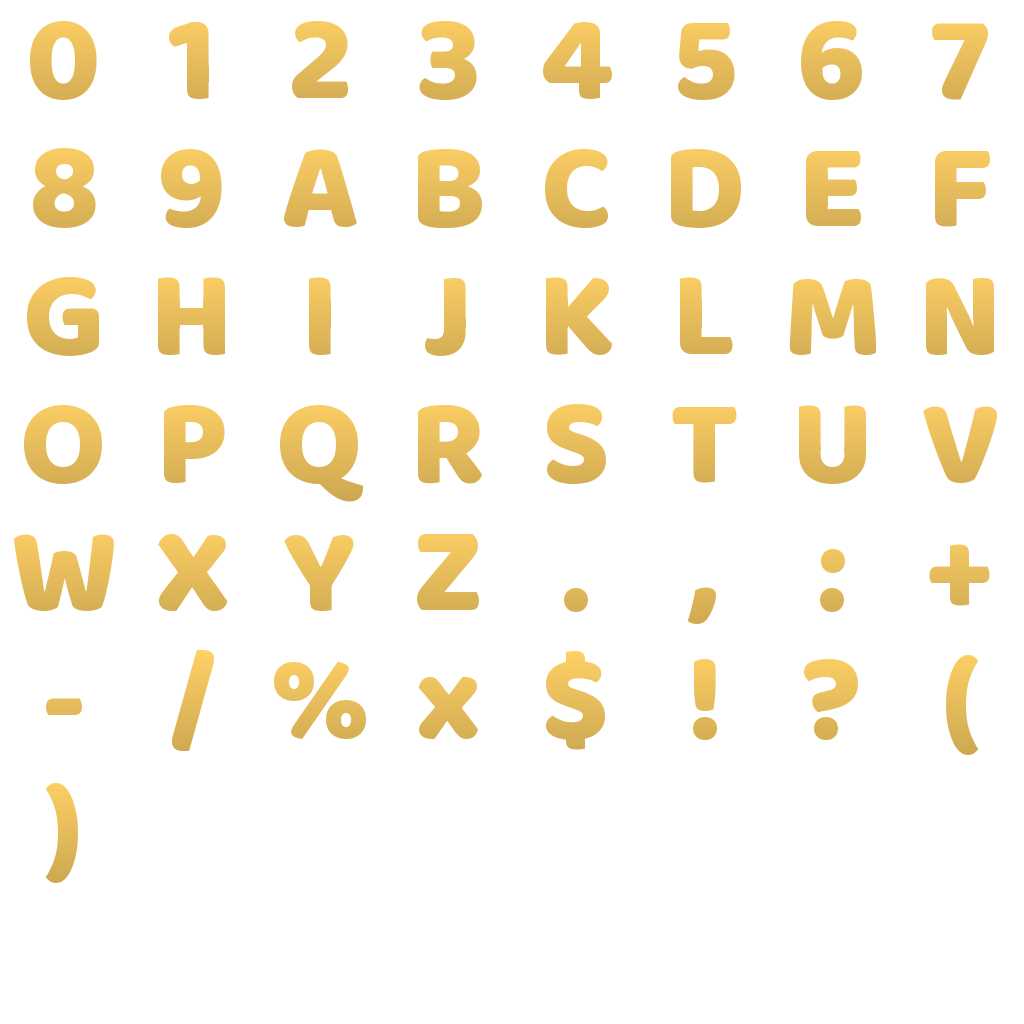
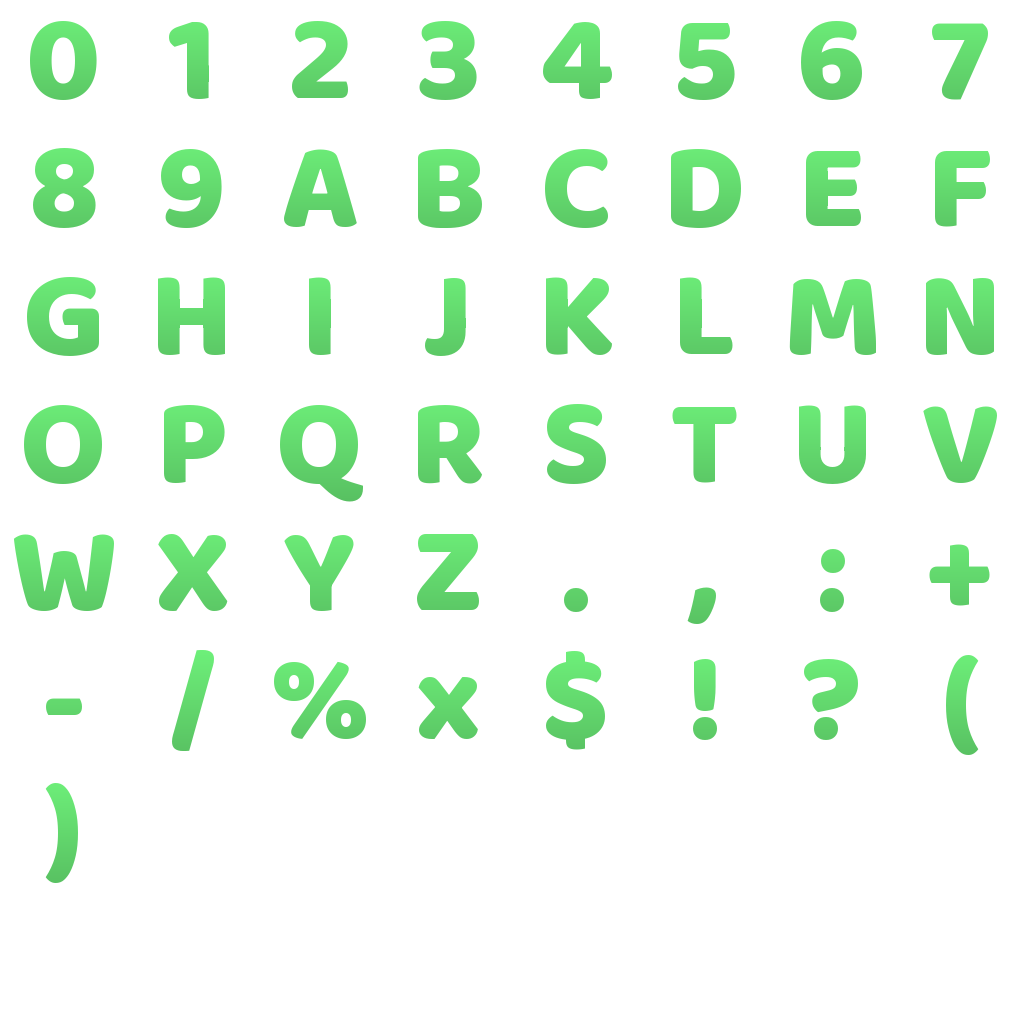
Bases visibles sans leur proprietaire, port du vole plus lourd que le forcage, vol permis sur les absents

diff --git a/src/server/plots.ts b/src/server/plots.ts
@@ -18,6 +18,16 @@ const BASE_KEY = (a: string) => `base:${a}`
 const PLAYER_KEY = 'profile'
 const SAUVE_MS = 5000
 
+/**
+ * A base, including the parts of its owner that a visitor can see.
+ *
+ * Floors, sentries and prestige used to be read out of the owner's profile at publish time.
+ * Profiles are loaded when a player joins; bases are restored for everybody. So the building
+ * of anyone who was not currently connected went out with one floor, no sentries and no
+ * prestige, which is to say it looked like a beginner's, and a visitor walking into a
+ * three-storey base saw a hut. The visible parts are kept on the base and saved with it, and
+ * refreshed from the profile whenever there is one.
+ */
 type Base = {
   address: string
   name: string
@@ -26,6 +36,11 @@ type Base = {
   z: number
   entity: ReturnType<typeof engine.addEntity>
   lastSeen: number
+  floorsBought: number
+  sentries: number
+  rebirths: number
+  given: number
+  received: number
 }
 type Profil = {
   coins: number
@@ -104,25 +119,40 @@ function arrange(items: number[]): number[] {
 function publish(b: Base, ici?: Set<string>): void {
   const c = Plot.getMutableOrNull(b.entity)
   if (c === null) return
+  // A loaded profile is the truth and refreshes the shopfront; otherwise the shopfront is
+  // what the base remembers, which is what an absent owner's building has to be drawn from.
   const pr = profiles.get(b.address)
-  c.floors = openFloors(pr?.floorsBought ?? 0)
-  c.rebirths = pr?.rebirths ?? 0
+  if (pr !== undefined) {
+    b.floorsBought = pr.floorsBought ?? 0
+    b.sentries = pr.sentries ?? 0
+    b.rebirths = pr.rebirths ?? 0
+    b.given = pr.given ?? 0
+    b.received = pr.received ?? 0
+  }
+  c.floors = openFloors(b.floorsBought)
+  c.rebirths = b.rebirths
   c.ownerId = b.address
   c.ownerName = b.name
   c.items = arrange(b.items)
   c.ownerPresent = (ici ?? presents()).has(b.address)
-  c.given = pr?.given ?? 0
-  c.received = pr?.received ?? 0
-  c.sentries = pr?.sentries ?? 0
+  c.given = b.given
+  c.received = b.received
+  c.sentries = b.sentries
 }
 
-function createBase(address: string, name: string, items: number[], lastSeen: number, x: number, z: number): Base | null {
+type Vitrine = { floorsBought: number; sentries: number; rebirths: number; given: number; received: number }
+const VITRINE_VIDE: Vitrine = { floorsBought: 0, sentries: 0, rebirths: 0, given: 0, received: 0 }
+
+function createBase(
+  address: string, name: string, items: number[], lastSeen: number, x: number, z: number,
+  vitrine: Vitrine = VITRINE_VIDE
+): Base | null {
   try {
   const e = engine.addEntity()
   Transform.create(e, { position: Vector3.create(x, 0, z) })
   Plot.create(e, { floors: 1, rebirths: 0, index: 0, ownerId: address, ownerName: name, items: arrange(items), ownerPresent: false, lockedUntil: 0 })
   syncEntity(e, [Plot.componentId, Transform.componentId])
-  const b: Base = { address, name, items: [...items], x, z, entity: e, lastSeen }
+  const b: Base = { address, name, items: [...items], x, z, entity: e, lastSeen, ...vitrine }
   bases.set(address, b)
   publish(b)
   return b
@@ -147,13 +177,21 @@ async function loadBases(): Promise<void> {
         const v = typeof value === 'string' ? JSON.parse(value) : (value as any)
         return {
           address: key.slice('base:'.length), name: v.name ?? '', items: v.items ?? [],
-          lastSeen: v.lastSeen ?? 0, x: v.x, z: v.z
+          lastSeen: v.lastSeen ?? 0, x: v.x, z: v.z,
+          floorsBought: v.floorsBought ?? 0, sentries: v.sentries ?? 0,
+          rebirths: v.rebirths ?? 0, given: v.given ?? 0, received: v.received ?? 0
         }
       })
       .filter((l) => typeof l.x === 'number' && typeof l.z === 'number')
       .sort((a, b) => b.lastSeen - a.lastSeen)
       .slice(0, MAX_BASES_AFFICHEES)
-    for (const l of loaded) createBase(l.address, l.name, l.items, l.lastSeen, l.x, l.z)
+    // The shopfront travels with the base, so a building whose owner is away still stands.
+    for (const l of loaded) {
+      createBase(l.address, l.name, l.items, l.lastSeen, l.x, l.z, {
+        floorsBought: l.floorsBought, sentries: l.sentries,
+        rebirths: l.rebirths, given: l.given, received: l.received
+      })
+    }
     log(`${loaded.length} of ${res.pagination.total} bases restored`)
   } catch (e) {
     log(`ERROR could not read bases: ${e}`)
@@ -165,7 +203,11 @@ async function save(): Promise<void> {
     dirtyBases.delete(a)
     const b = bases.get(a)
     if (!b) continue
-    const ok = await Storage.set(BASE_KEY(a), JSON.stringify({ name: b.name, items: b.items, lastSeen: b.lastSeen, x: b.x, z: b.z }))
+    const ok = await Storage.set(BASE_KEY(a), JSON.stringify({
+      name: b.name, items: b.items, lastSeen: b.lastSeen, x: b.x, z: b.z,
+      floorsBought: b.floorsBought, sentries: b.sentries, rebirths: b.rebirths,
+      given: b.given, received: b.received
+    }))
     if (!ok) { log(`ERROR base save failed ${a}`); dirtyBases.add(a) }
   }
   for (const a of [...dirtyProfiles]) {

diff --git a/src/shared/schemas.ts b/src/shared/schemas.ts
@@ -197,9 +197,11 @@ export const Carried = engine.defineComponent('basetycoon::carried', {
  *
  * One number for both, because they are the same situation seen twice: somebody has their
  * hands on a thing that is not theirs, and shots loosen that hold by an amount the distance
- * decides. Three is three point-blank hits, half a second of sustained fire.
+ * decides. Five is five point-blank hits, about nine tenths of a second of sustained fire:
+ * raised from three when carrying was made heavy, because a slower runner is a much easier
+ * target and the chase had to keep the shape it was tuned for.
  */
-export const CARRY_GRIP = 3
+export const CARRY_GRIP = 5
 
 /**
  * How much a shot is worth at the distance it was taken from.
@@ -250,15 +252,25 @@ export const DroppedItem = engine.defineComponent('basetycoon::dropped-item', {
 })
 
 /**
- * How much a full pair of hands slows you down.
+ * How much full hands slow you down, and it depends whose hands the thing was in before.
  *
- * The prying penalty was set to run for the theft plus two seconds, so it expired just after
- * the item reached the thief's hands: the half of the theft meant to be dangerous was the
- * half they ran through at full speed. Carrying is its own slowdown now, for exactly as long
- * as the carrying lasts, and it is lighter than the prying penalty because being pinned in
- * place and being weighed down are not the same punishment.
+ * A first pass gave carrying a single share of 0.72 and left the prying penalty running
+ * alongside it. The two multiply, and the penalty expires two seconds after the item lands in
+ * the hands, so the thief went 6.5 while prying and then **7.92 the instant they walked off
+ * with it**: they accelerated at the exact moment the dangerous half of the theft began, which
+ * is why a player reported feeling no slowdown at all. They were right, it was a speed-up.
+ *
+ * Stolen goods now carry their own share and replace the prying penalty rather than stacking
+ * with it, so the transition is continuous: 6.5 while prying, 6.82 while running for it. Your
+ * own belongings are lighter, because moving a trophy around your own shelves is not the same
+ * act as running off with somebody else's.
+ *
+ * 0.62 is not a taste. Simulated against the chase, it is the share that keeps the shape the
+ * balance was tuned for once the grip is raised to match: the owner wins at point blank in
+ * about a second, struggles at ten metres, and cannot land enough past fifteen.
  */
-export const CARRY_SPEED_SHARE = 0.72
+export const CARRY_STOLEN_SHARE = 0.62
+export const CARRY_OWN_SHARE = 0.85
 
 /** How long a carried item waits for its carrier before taking itself home. */
 export const CARRY_TIMEOUT_MS = 90_000
@@ -295,15 +307,14 @@ export const SENTRY_MAX_CHARGES = SENTRY_TIERS[SENTRY_TIERS.length - 1].charges
 export const SENTRY_MIN_PRICE = 240
 
 /**
- * What an absent player always comes back to.
+ * Nothing shelters an absent player except what they left behind.
  *
- * Theft never checked whether the owner was in the scene, so anyone who logged off could be
- * stripped bare with no counterplay at all: nothing to defend with, nothing to react to. The
- * long protections above were the wrong answer to this real problem. The right one is a
- * floor: while you are away, your best few items cannot be taken. Come back and there is
- * still a base, and still a reason to.
+ * There was a floor here, three items an absent owner could never lose, added because logging
+ * off with no counterplay looked harsh. It is the wrong tool: a base that cannot be emptied is
+ * a base nobody has to defend, and defending is what the sentries, the shield and the whole
+ * back half of this design are for. The answer to being robbed while away is to have armed
+ * something before leaving, not to be immune.
  */
-export const ABSENT_KEEP = 3
 export const SENTRY_FREEZE_MS = 7000
 export const SENTRY_LOCK_MS = 60_000
 

diff --git a/src/client/locomotion.ts b/src/client/locomotion.ts
@@ -1,6 +1,6 @@
 import { engine, TouchScreenControls, InputAction, AvatarLocomotionSettings, timers } from '@dcl/sdk/ecs'
 import { getPlatform, isMobile } from '@dcl/sdk/platform'
-import { AIM_SPEED_SHARE, CARRY_SPEED_SHARE } from '../shared/schemas'
+import { AIM_SPEED_SHARE, CARRY_STOLEN_SHARE, CARRY_OWN_SHARE } from '../shared/schemas'
 
 export const JOG_NORMAL = 11
 export const THIEF_JOG = 6.5   // -41 %
@@ -20,15 +20,26 @@ const FREEZE_JUMP = 0.2
  * Uses AvatarLocomotionSettings rather than InputModifier: the latter is documented as
  * having no effect outside the DCL 2.0 desktop client, and most of the score is mobile.
  */
-const etat = { thief: false, aiming: false, carrying: false, frozenUntil: 0 }
+const etat = { thief: false, aiming: false, carrying: 'non' as Charge, frozenUntil: 0 }
+
+export type Charge = 'non' | 'sien' | 'vole'
 
 function appliquer(): void {
   const frozen = etat.frozenUntil > Date.now()
-  const base = etat.thief ? THIEF_JOG : JOG_NORMAL
+  /*
+    Stolen goods REPLACE the prying penalty rather than multiplying with it.
+    
+    The two used to stack, and the penalty expires two seconds after the item reaches the
+    hands, so the thief went 6.5 while prying and 7.92 the moment they ran: an acceleration
+    at the exact instant the dangerous half began. Carrying something that is not yours is
+    now the single governing load, so 6.5 becomes 6.82 and the change is continuous.
+  */
+  const charge = etat.carrying === 'vole' ? CARRY_STOLEN_SHARE
+    : etat.carrying === 'sien' ? CARRY_OWN_SHARE
+    : 1
+  const base = (etat.thief && etat.carrying !== 'vole') ? THIEF_JOG : JOG_NORMAL
   AvatarLocomotionSettings.createOrReplace(engine.PlayerEntity, {
-    jogSpeed: frozen
-      ? FREEZE_JOG
-      : base * (etat.aiming ? AIM_SPEED_SHARE : 1) * (etat.carrying ? CARRY_SPEED_SHARE : 1),
+    jogSpeed: frozen ? FREEZE_JOG : base * charge * (etat.aiming ? AIM_SPEED_SHARE : 1),
     jumpHeight: frozen ? FREEZE_JUMP : etat.thief ? THIEF_JUMP : SAUT_NORMAL
   })
 }
@@ -47,9 +58,9 @@ export function applyFreeze(ms: number): void {
  * long as the carrying does. It stacks with the prying penalty and with aiming rather than
  * replacing them: someone who tries to shoot their way out while loaded should feel it.
  */
-export function setCarrying(active: boolean): void {
-  if (etat.carrying === active) return
-  etat.carrying = active
+export function setCarrying(charge: Charge): void {
+  if (etat.carrying === charge) return
+  etat.carrying = charge
   appliquer()
 }
 

diff --git a/src/ui.tsx b/src/ui.tsx
@@ -384,6 +384,11 @@ function nextAction(): { label: string; action: () => void; icon?: string } | nu
  * journey belongs to the heartbeat: the bar disappears because the server answered, which
  * is the only thing that was ever worth reporting.
  */
+/** True once the wait has outrun the fifteen seconds the platform documents for a cold start. */
+function attenteLongue(): boolean {
+  return view.waitingSince !== 0 && Date.now() - view.waitingSince > 25_000
+}
+
 const WaitBar = () => {
   const attente = view.waitingSince === 0 ? 0 : Date.now() - view.waitingSince
   const part = 0.9 * (1 - Math.exp(-attente / 5000))
@@ -650,8 +655,19 @@ const uiComponent = () => {
           }
           value={
             !view.serverAlive
+              /*
+                A wait that outlives its own estimate has to say so.
+
+                The bar approaches nine tenths and stops, on purpose, because the fifteen
+                seconds it is drawn against is a documented figure and not a measurement of
+                our server. That honesty becomes silence if the wait runs long: the player
+                watches a bar that has not moved in half a minute and concludes it is stuck.
+                Past twenty-five seconds the line stops repeating itself and admits the delay,
+                which is the only thing left that is true.
+              */
               ? (view.serverBooting
-                  ? (intentEnAttente() ? 'STARTING UP, ACTION QUEUED' : 'STARTING UP')
+                  ? (attenteLongue() ? 'STILL STARTING, THIS ONE IS SLOW'
+                    : intentEnAttente() ? 'STARTING UP, ACTION QUEUED' : 'STARTING UP')
                   : (intentEnAttente() ? 'RECONNECTING, ACTION QUEUED' : 'RECONNECTING'))
             : !theftView.basePosee ? 'PLACE YOUR BASE'
             : theftView.income === 0 ? 'OPEN A CRATE TO EARN'

diff --git a/src/server/theft.ts b/src/server/theft.ts
@@ -2,7 +2,7 @@ import { engine, Transform, PlayerIdentityData, timers } from '@dcl/sdk/ecs'
 import { Vector3 } from '@dcl/sdk/math'
 import {
   STEAL_RANGE, STEAL_REACH, STEAL_HOLD_REACH, SAME_STOREY, GIFT_RANGE, STEAL_BASE_MS, STEAL_PER_RARITY_MS, RECOVER_RANGE, LOCK_ON_ARRIVAL_MS, LOCK_FREE_MS, SENTRY_FREEZE_MS, SENTRY_LOCK_MS,
-  LOCK_BONUS_MS, PENALTY_MS, RECOVER_WINDOW_MS, ABSENT_KEEP, CARRY_GRIP
+  LOCK_BONUS_MS, PENALTY_MS, RECOVER_WINDOW_MS, CARRY_GRIP
 } from '../shared/schemas'
 
 const BUILD_RANGE = 7
@@ -213,20 +213,6 @@ export function startTheft(): void {
         continue
       }
       if (c.items.length === 0) { refus(thief, 'steal', `${c.name} has nothing to take`); continue }
-      /*
-        An absent player keeps a floor, because they have no other answer.
-        
-        Theft never asked whether the owner was in the scene, so logging off meant being
-        stripped bare with nothing to defend with and nothing to react to. Long protections
-        were the tempting fix and the wrong one: they would seal every base during the review
-        window and hide the one mechanic this scene is built on. A floor instead. The base
-        stays worth robbing until it is down to its best few, and its owner comes back to
-        something rather than to an empty plot.
-      */
-      if (c.items.length <= ABSENT_KEEP && !presents().has(c.address)) {
-        refus(thief, 'steal', `${c.name} is away, their last ${ABSENT_KEEP} are safe`)
-        continue
-      }
 
 
       const slot = d.slot

diff --git a/src/server/carry.ts b/src/server/carry.ts
@@ -186,8 +186,23 @@ export function startCarry(): void {
   room.onMessage('sellCarried', (_d, ctx) => {
     const a = ctx?.from?.toLowerCase()
     if (!a) return
+    const e = portes.get(a)
+    const c = e === undefined ? null : Carried.getOrNull(e)
+    if (c === null) { void room.send('carryResult', { ok: false, reason: 'you are not carrying anything', rarity: 0, mutation: 0 }, { to: [a] }); return }
+    /*
+      Stolen goods cannot be cashed on the spot.
+      
+      Selling from the hand was written for tidying your own shelves and applied to anything in
+      them, so a thief could turn somebody else's trophy into coins standing in their doorway.
+      That deletes the walk home, which is the only part of a theft the victim can contest, and
+      with it the whole reason the carry exists. What is not yours has to reach a base first.
+    */
+    if (c.origin !== a) {
+      void room.send('carryResult', { ok: false, reason: 'not yours to sell, put it down first', rarity: 0, mutation: 0 }, { to: [a] })
+      return
+    }
     const quoi = lacher(a)
-    if (quoi === null) { void room.send('carryResult', { ok: false, reason: 'you are not carrying anything', rarity: 0, mutation: 0 }, { to: [a] }); return }
+    if (quoi === null) return
     const gain = crediterVente(a, quoi.code)
     void room.send('sold', { gain, rarity: rarityOf(quoi.code) }, { to: [a] })
     log(`carry: ${displayName(a)} sold a ${rarityOf(quoi.code)} out of hand for ${gain}`)

diff --git a/src/client/carry.ts b/src/client/carry.ts
@@ -22,7 +22,7 @@ import { setCarrying } from './locomotion'
  * exactly right for something you are carrying: it swings as they run.
  */
 
-export const carryView = { code: -1, name: '' }
+export const carryView = { code: -1, name: '', vole: false }
 
 const vues = new Map<number, { corps: Entity; etiquette: Entity }>()
 
@@ -36,12 +36,13 @@ export function setupCarry(): void {
   engine.addSystem(() => {
     const moi = monAdresseClient()
     let porteMoi = -1
+    let volee = false
     const vivants = new Set<number>()
 
     for (const [e, c] of engine.getEntitiesWith(Carried)) {
       const id = e as unknown as number
       vivants.add(id)
-      if (c.holder.toLowerCase() === moi) porteMoi = c.code
+      if (c.holder.toLowerCase() === moi) { porteMoi = c.code; volee = c.origin.toLowerCase() !== moi }
 
       if (!vues.has(id)) {
         const r = rarityOf(c.code)
@@ -86,9 +87,10 @@ export function setupCarry(): void {
       vues.delete(id)
     }
 
-    if (porteMoi !== carryView.code) {
+    if (porteMoi !== carryView.code || volee !== carryView.vole) {
       carryView.code = porteMoi
-      setCarrying(porteMoi >= 0)
+      carryView.vole = volee
+      setCarrying(porteMoi < 0 ? 'non' : volee ? 'vole' : 'sien')
       carryView.name = porteMoi < 0 ? '' : itemName(rarityOf(porteMoi), mutationDe(porteMoi))
     }
   })

diff --git a/src/client/theme.ts b/src/client/theme.ts
@@ -59,14 +59,15 @@ export const TYPE = {
  * warning is orange, a name is white, and anything destructive or refused is red. A player
  * who learns the code once reads any new panel without being taught it.
  *
- * Money was green, and a coin lying on the ground has always been gold: the same object in
- * two colours, which is why the counter read as neither and a player called it grey. It takes
- * the colour it already has in the world. Green keeps a job of its own, on the primary button
- * skin, where it means the thing to press. And the warning hue moved off amber, which sat too
- * close to the new gold to be told apart at a glance.
+ * Money stays green, and that is a deliberate departure from the coin lying on the ground,
+ * which is gold. Gold was tried: it matches the world, and against a bright sky at speed a
+ * warm yellow is harder on the eye than a green over the same long session. The reading of
+ * the counter as grey was never the hue anyway, it was the tint never arriving; with the
+ * colour baked into the atlas the green is finally the green that was asked for. The warning
+ * hue stays on the orange it moved to, which now differs from both.
  */
 export const HUE = {
-  money: '#ffd166',
+  money: '#6ef07a',
   bonus: '#ff8a3d',
   name: '#ffffff',
   danger: '#ff5c5c',

diff --git a/tools/ui/build-font-atlas.py b/tools/ui/build-font-atlas.py
@@ -137,7 +137,7 @@ def main():
     # than one. The shadow is a sixth: an offset copy needs to be black, and black is a
     # colour like any other once tinting is off the table.
     ROLES = {
-        'money': (0xff, 0xd1, 0x66),
+        'money': (0x6e, 0xf0, 0x7a),
         'bonus': (0xff, 0x8a, 0x3d),
         'name': (0xff, 0xff, 0xff),
         'danger': (0xff, 0x5c, 0x5c),
